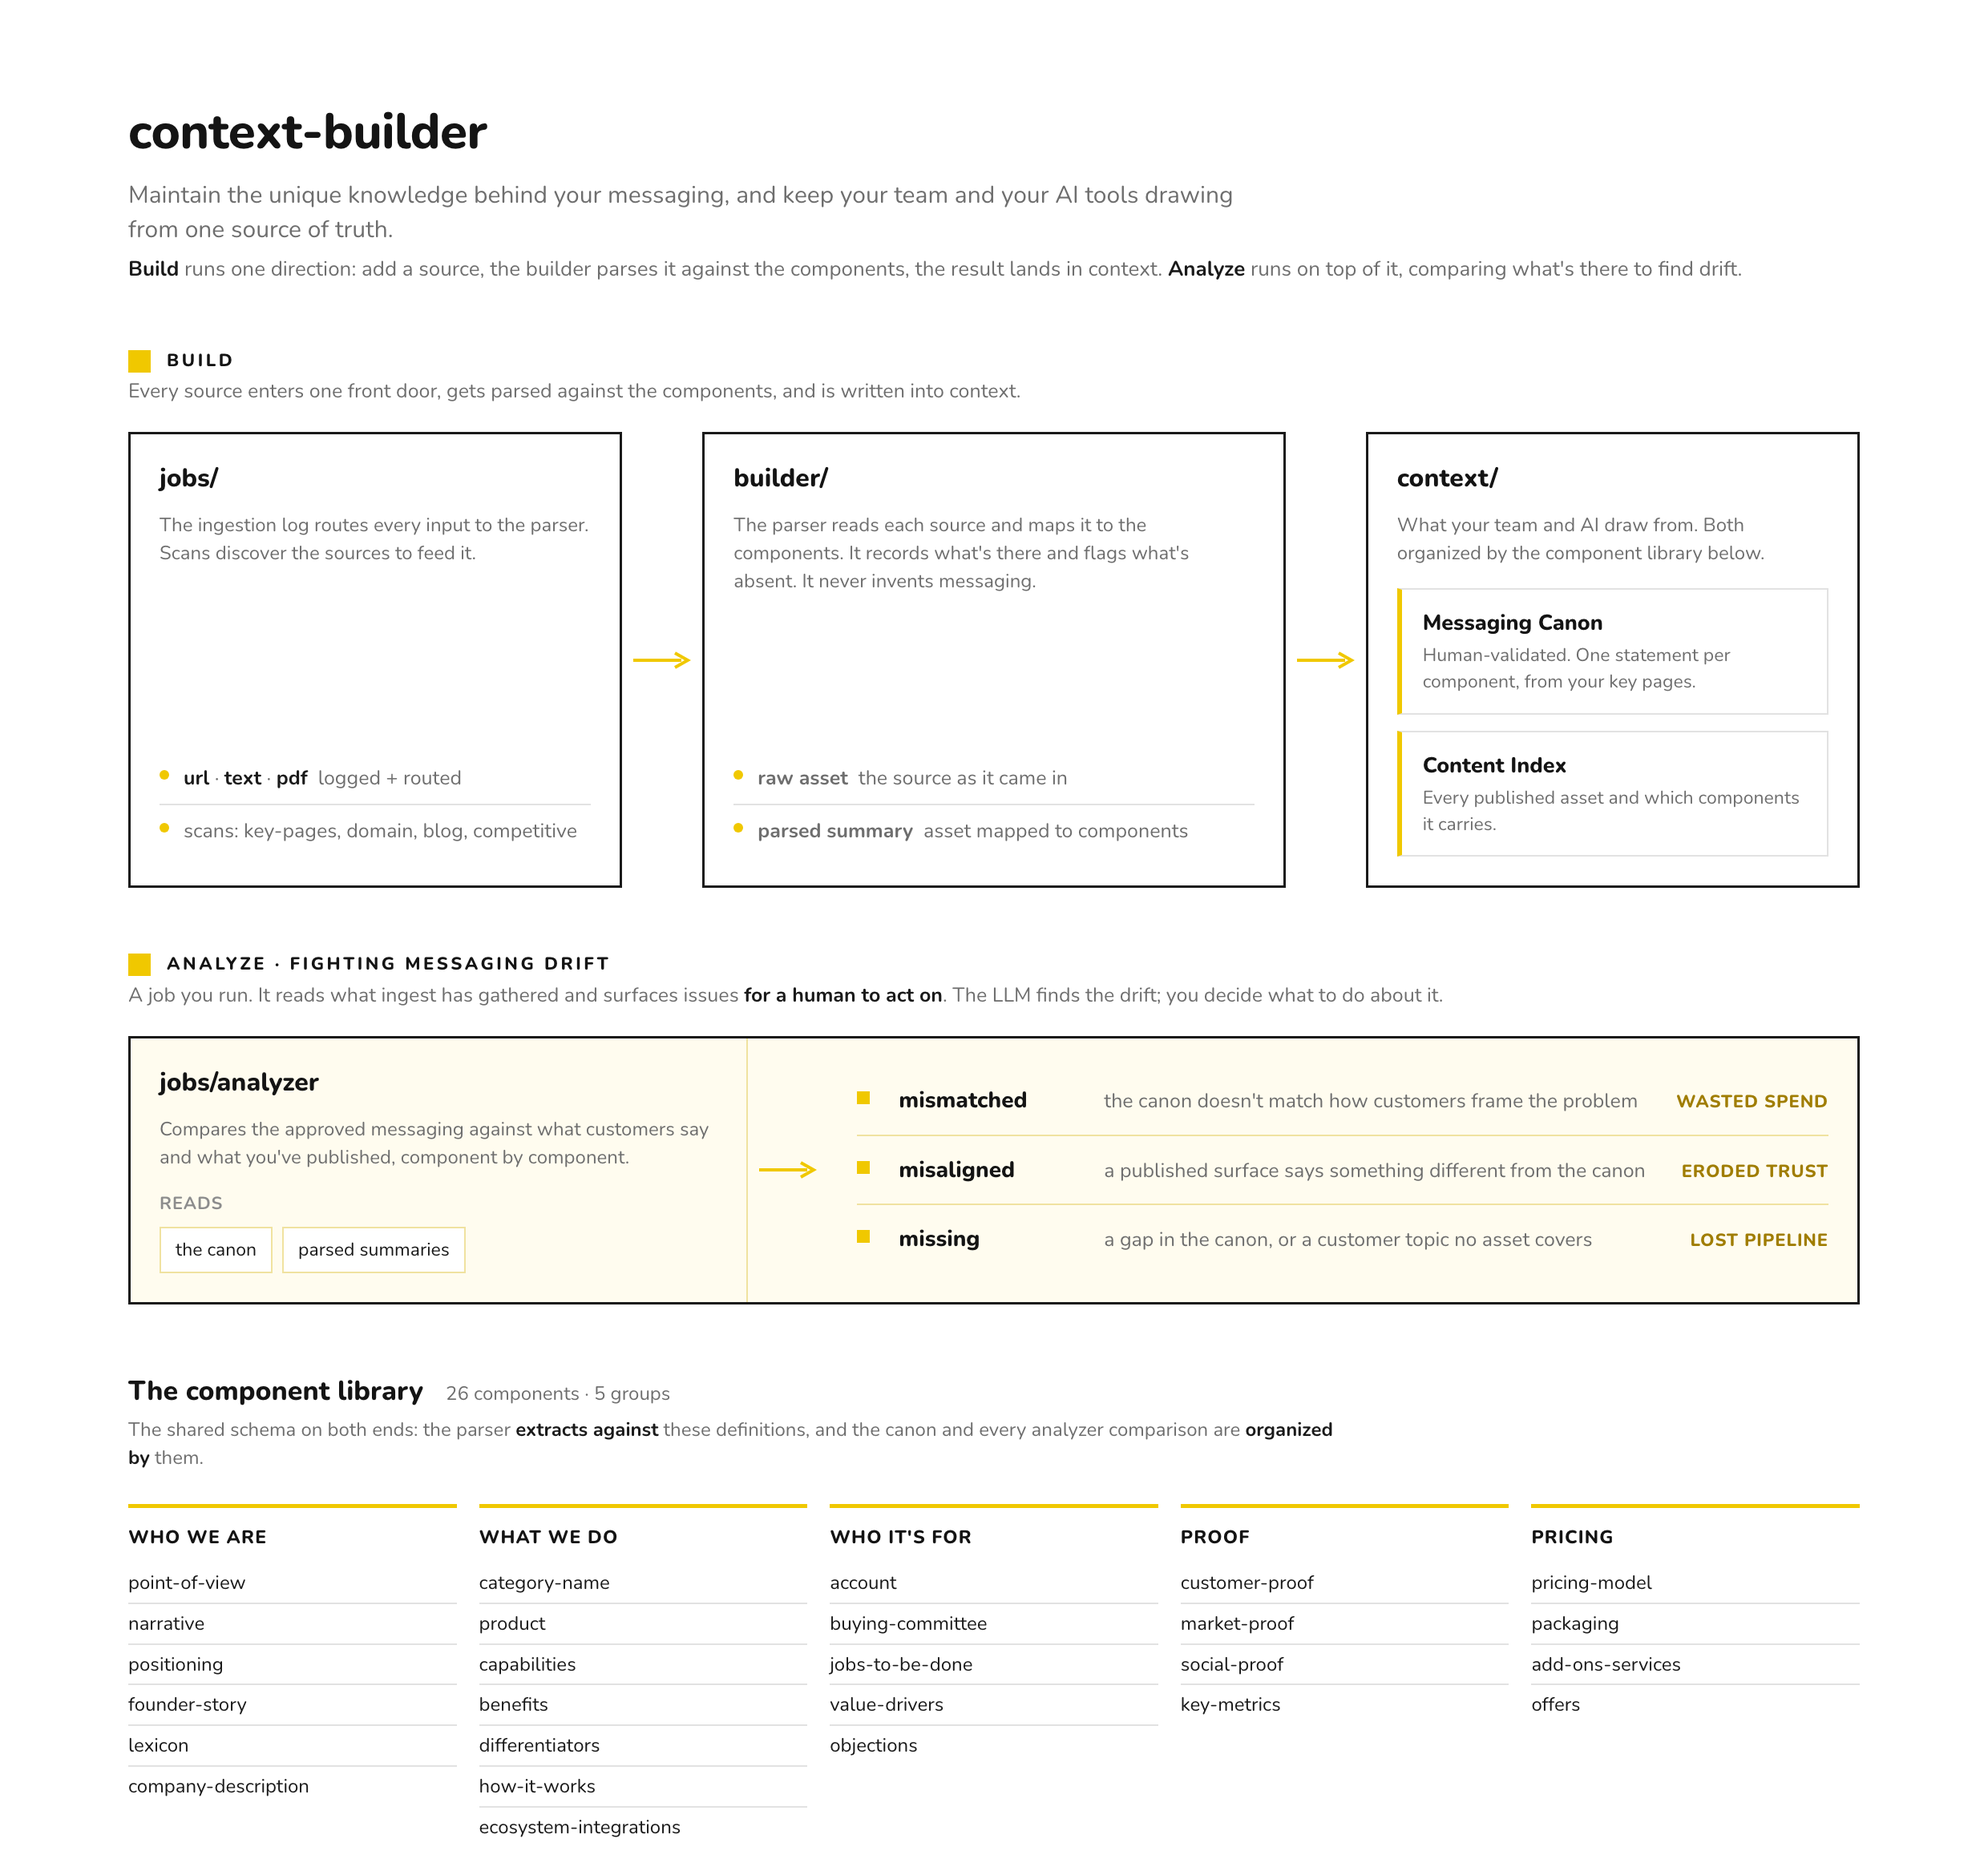
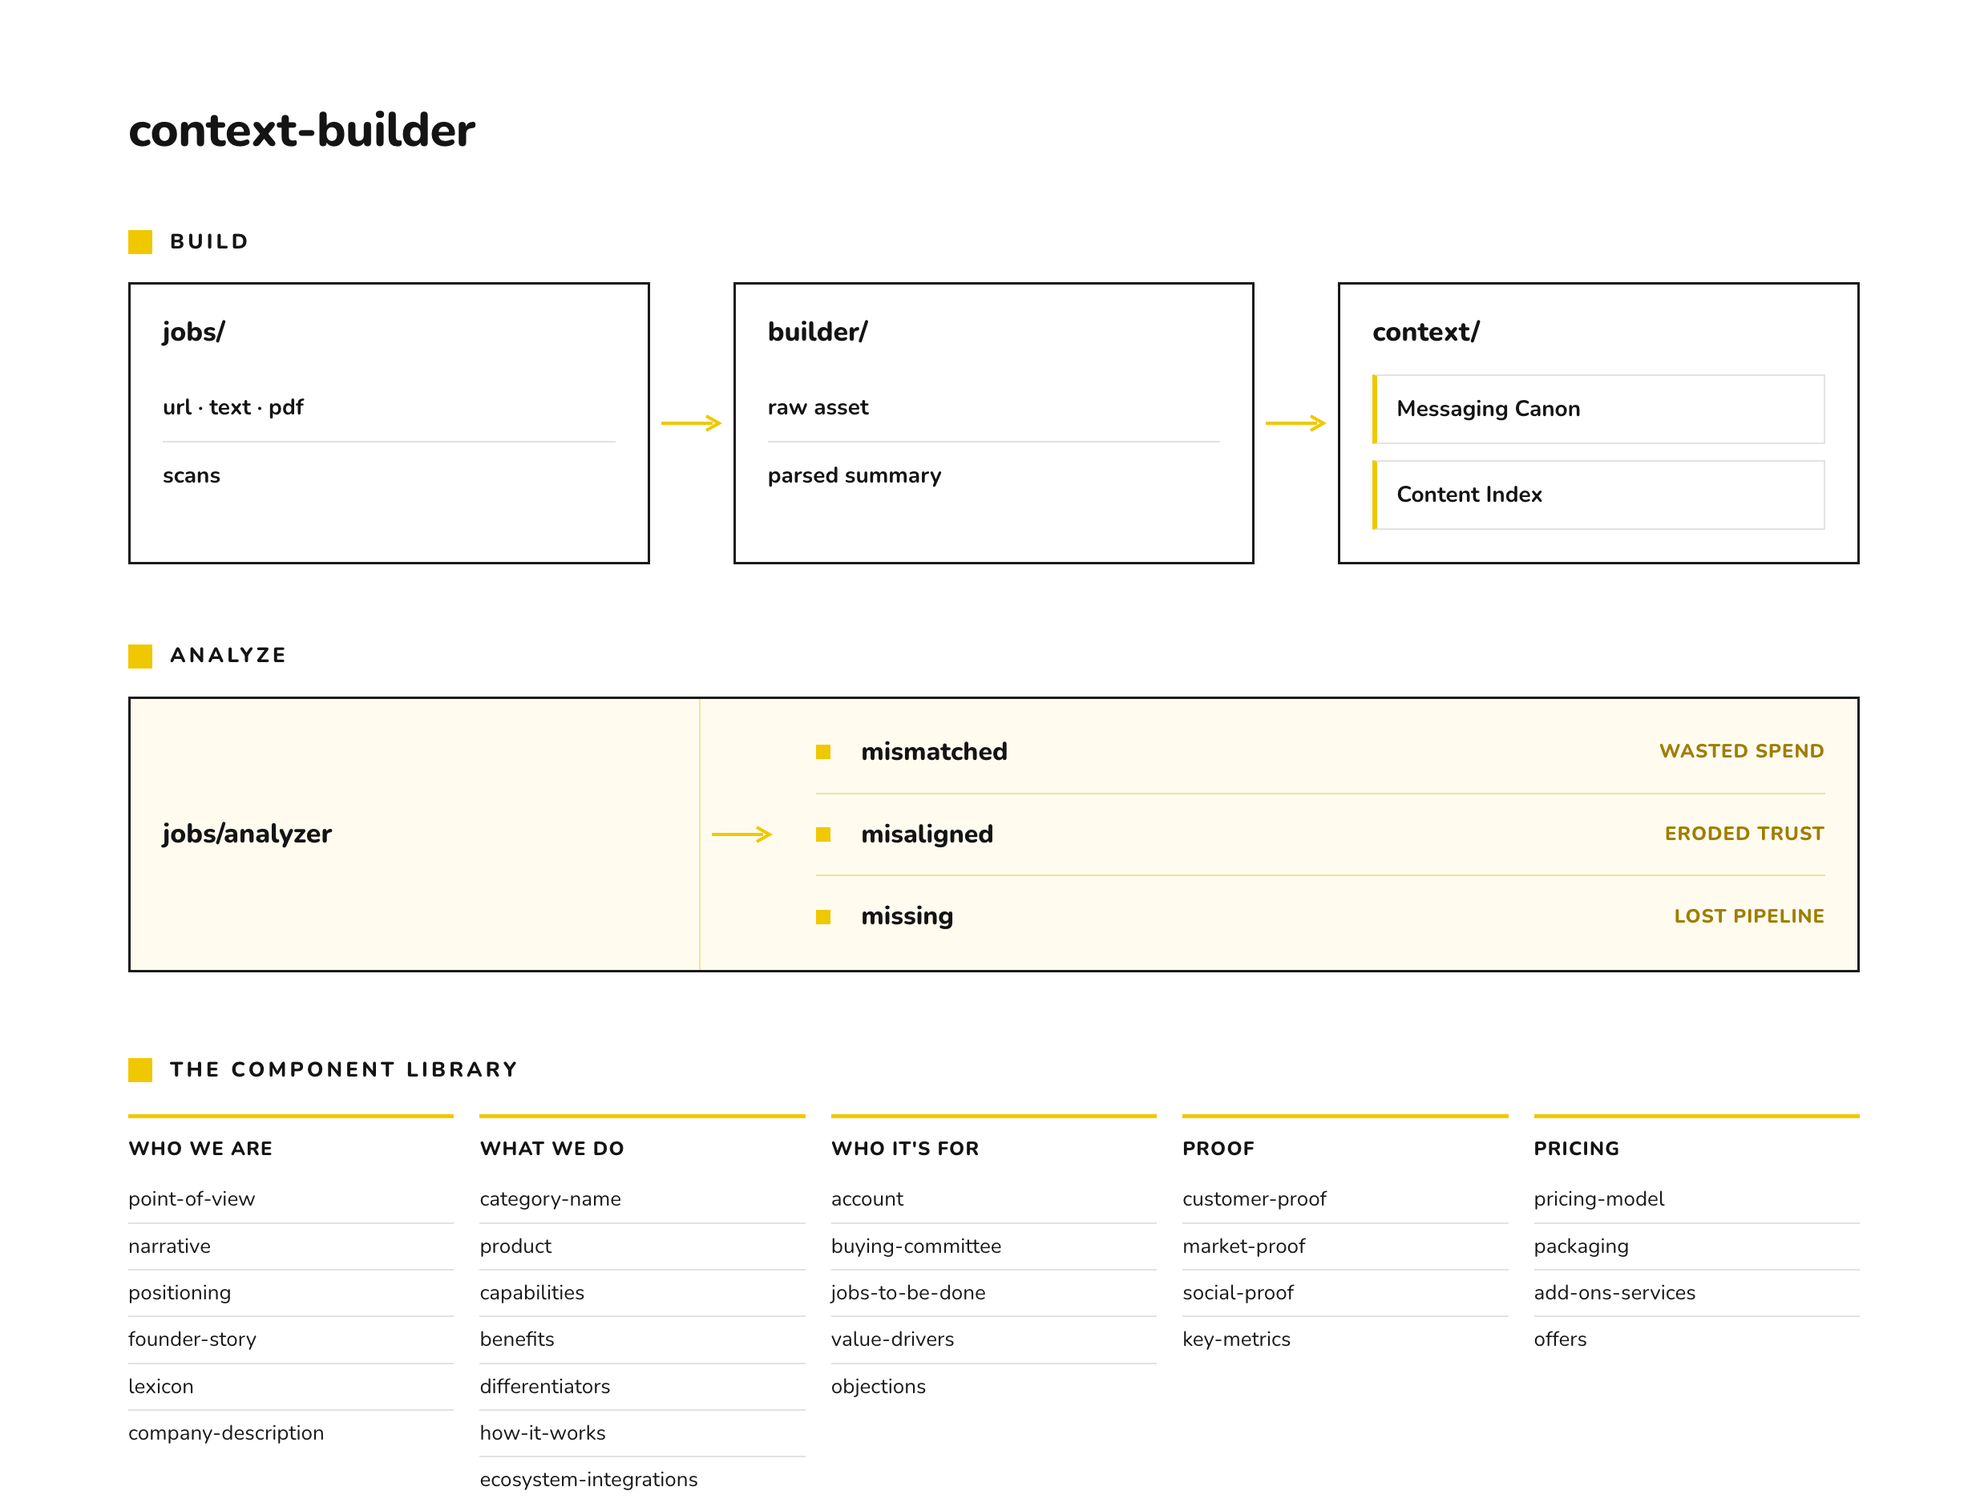
Simplify diagram to section labels + essentials; rename ingest flow to build

diff --git a/builder/README.md b/builder/README.md
@@ -14,7 +14,7 @@ and compares what it finds against the canon to surface issues.
 ## Flow
 
 ```
-ingest:   job → raw asset → parsed summary → context (canon + index)
+build:    job → raw asset → parsed summary → context (canon + index)
 analyze:  analyzer → parsed summaries → issues
 ```
 
